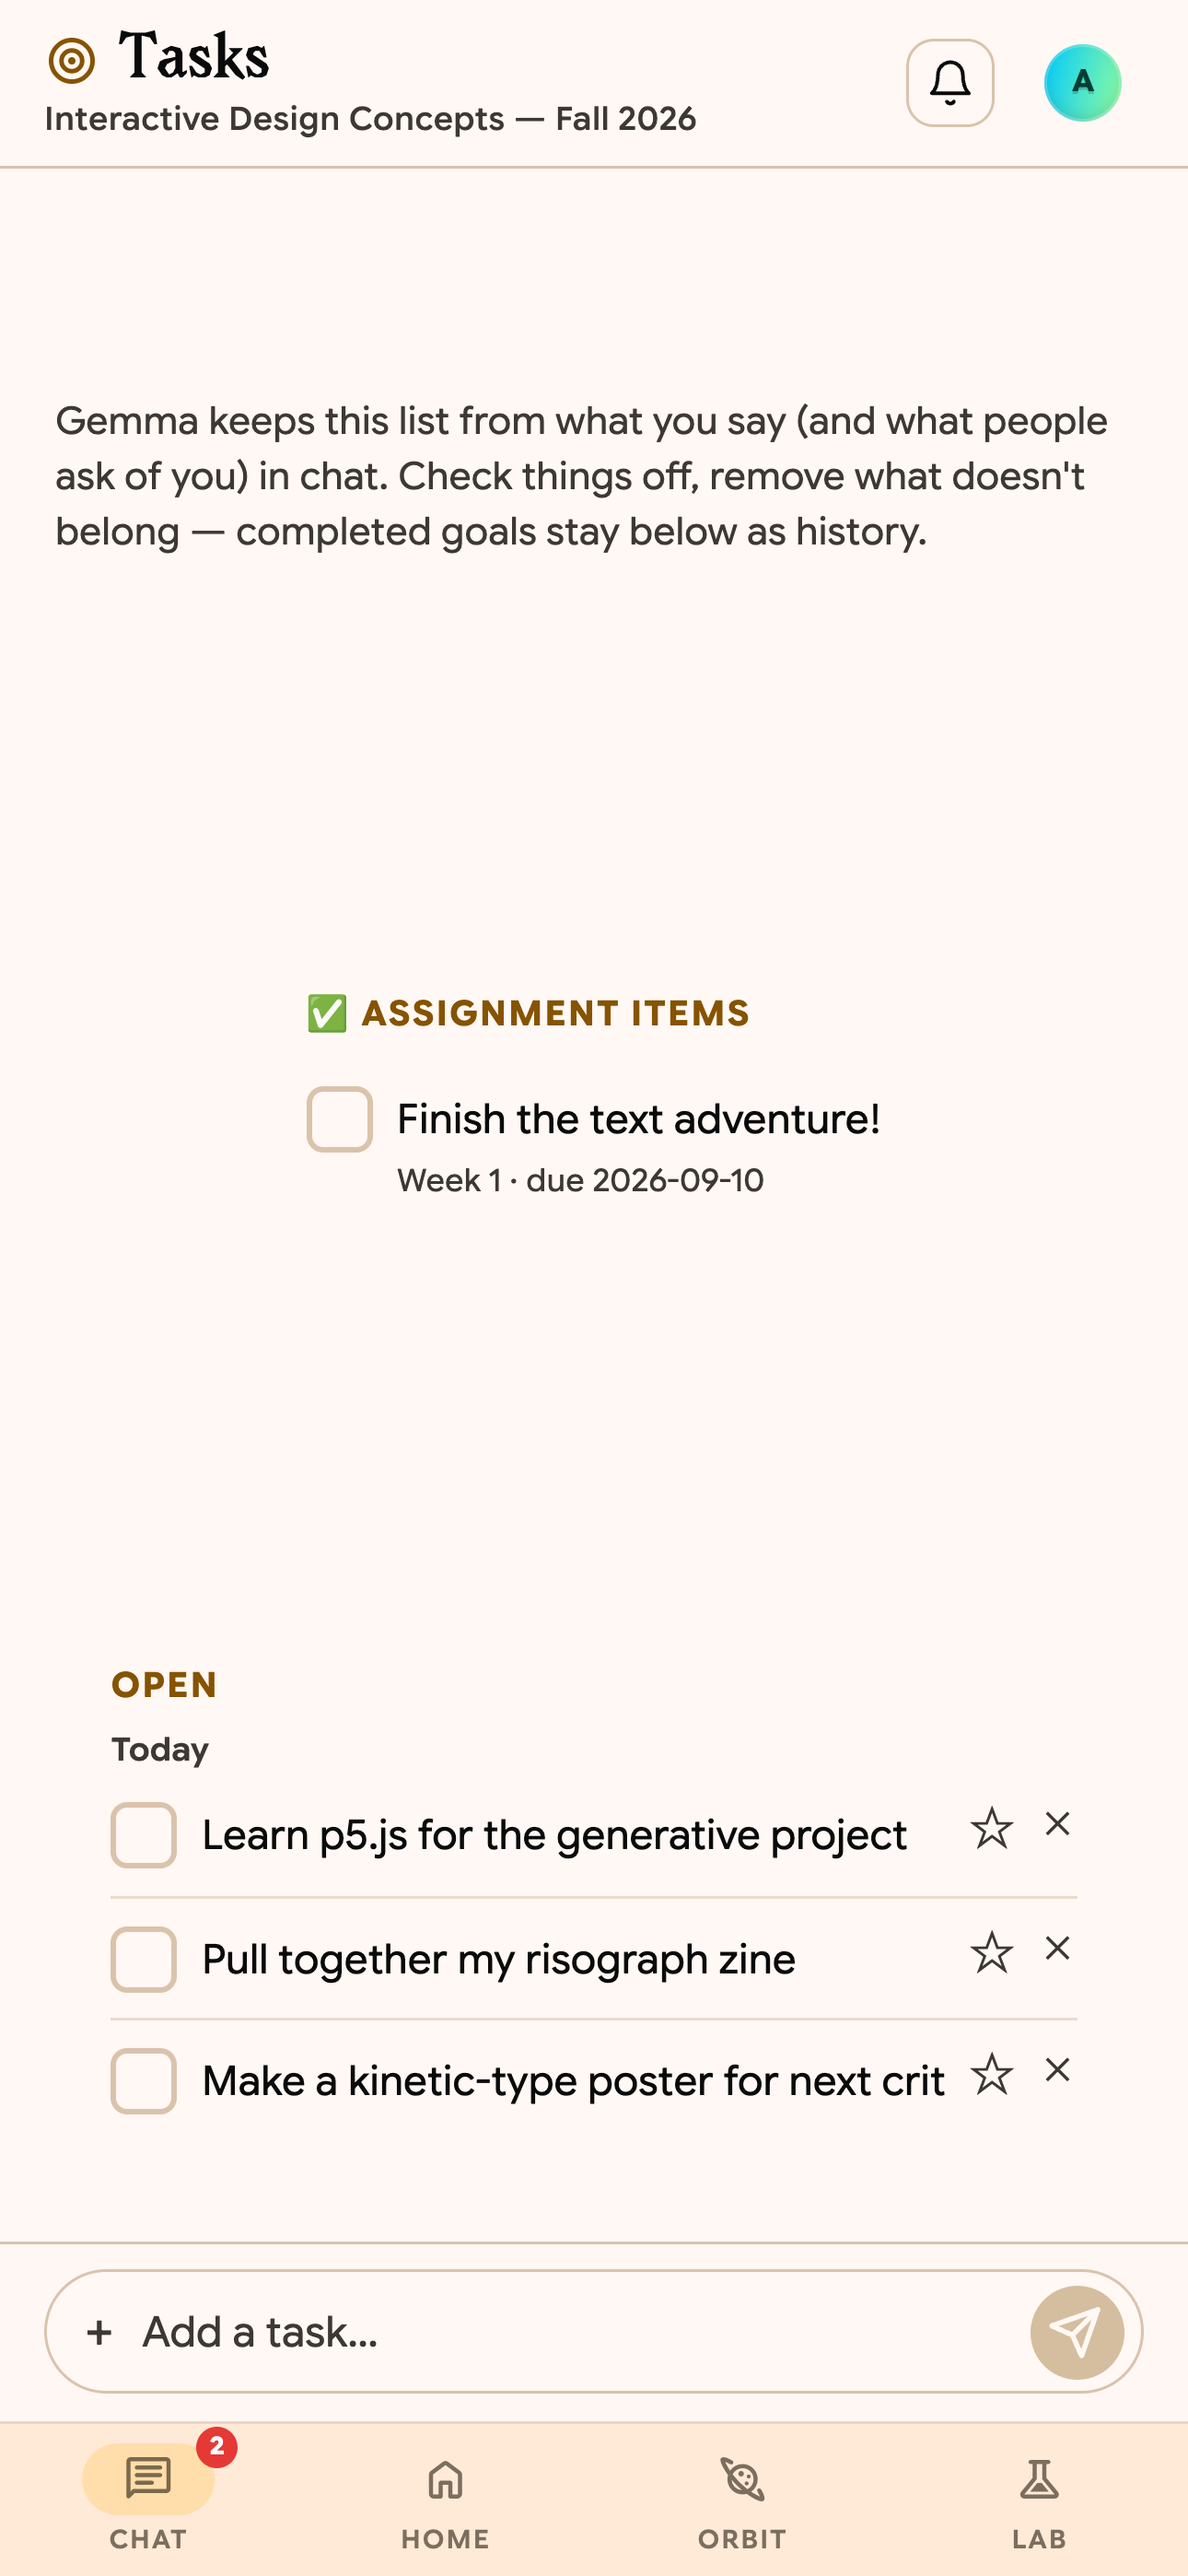
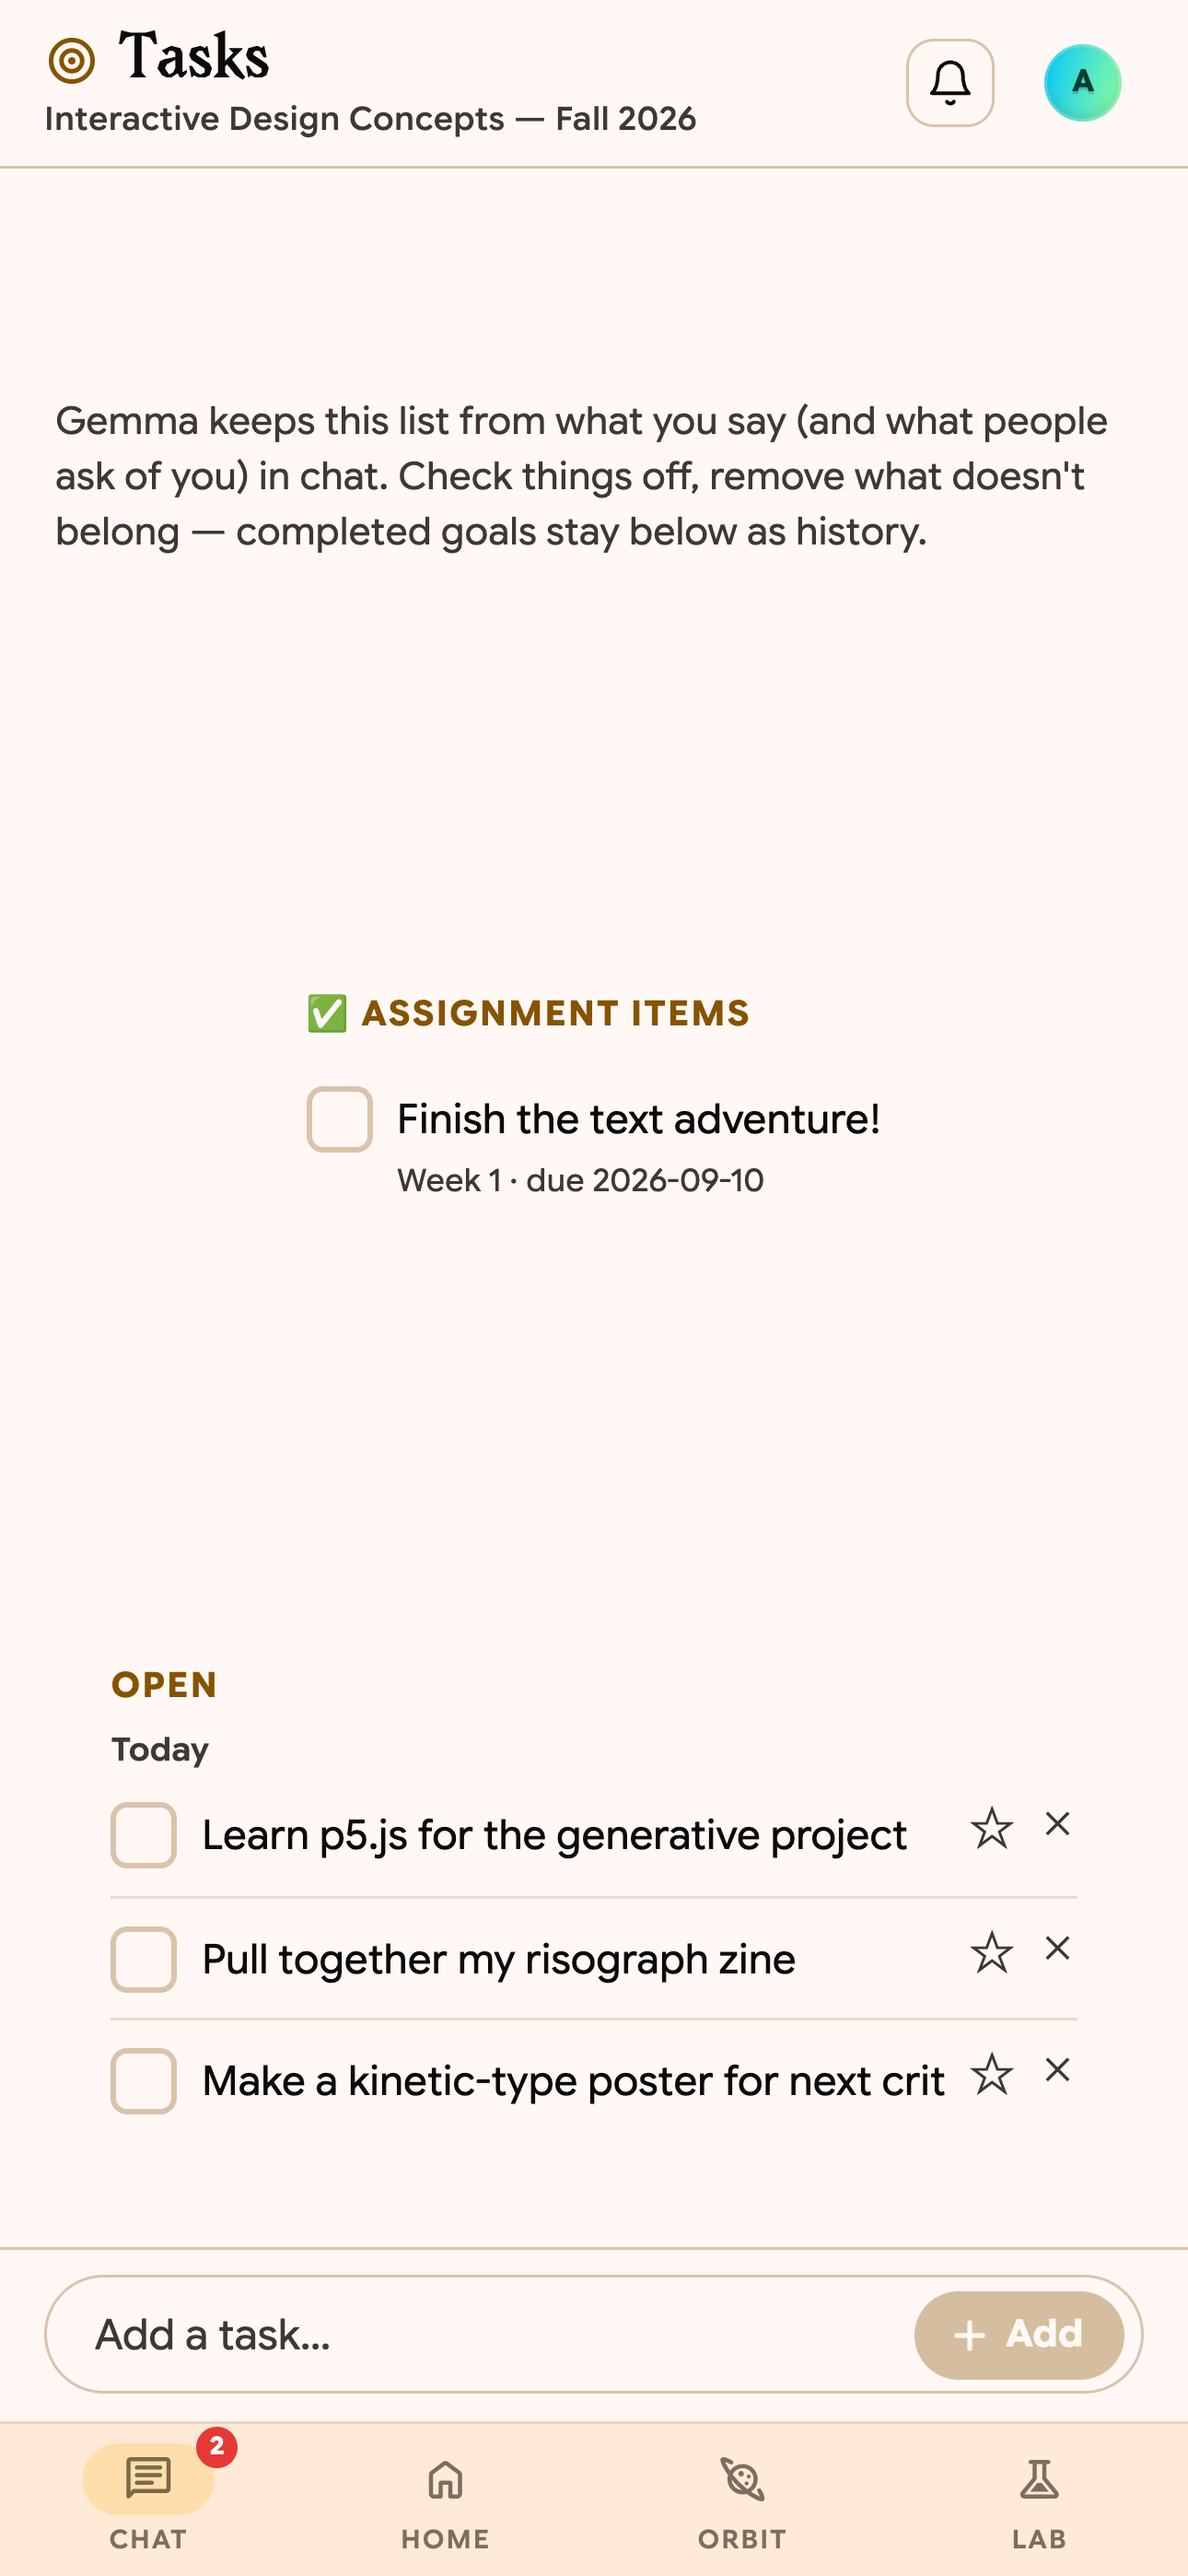
Tasks: "+ Add" button; chat send button matches compose-bar height
- Tasks add bar: replace the paper-plane send icon with a "＋ Add" pill
  button (dropped the redundant leading plus).
- Chat compose (channel + DM): the send button now stretches to the full
  height of the message box beside it (send-wrap align-self:stretch,
  btn-send height:100%) instead of being a fixed 2.5rem square.

Changed region(s): [[0.031, 0.8712, 0.9612, 0.9335]]

diff --git a/src/routes/app/goals/+page.svelte b/src/routes/app/goals/+page.svelte
@@ -277,7 +277,6 @@
 	     native shell via the same --kb-height transform the chat compose uses. -->
 	<div class="goal-add">
 		<div class="goal-add-inner">
-			<span class="goal-add-plus" aria-hidden="true">+</span>
 			<input
 				class="goal-add-input"
 				type="text"
@@ -286,8 +285,9 @@
 				bind:value={newTask}
 				onkeydown={onAddKey}
 			/>
-			<button class="goal-add-btn" disabled={!newTask.trim() || adding} onclick={addTask} aria-label="Add task">
-				<svg width="20" height="20" viewBox="0 0 24 24" fill="none" stroke="currentColor" stroke-width="2.2" stroke-linecap="round" stroke-linejoin="round"><path d="M22 2 11 13"/><path d="M22 2 15 22 11 13 2 9z"/></svg>
+			<button class="goal-add-btn" disabled={!newTask.trim() || adding} onclick={addTask}>
+				<svg width="16" height="16" viewBox="0 0 24 24" fill="none" stroke="currentColor" stroke-width="2.6" stroke-linecap="round" stroke-linejoin="round"><line x1="12" y1="5" x2="12" y2="19"/><line x1="5" y1="12" x2="19" y2="12"/></svg>
+				<span>Add</span>
 			</button>
 		</div>
 	</div>
@@ -319,22 +319,23 @@
 		display: flex; align-items: center; gap: 0.5rem;
 		background: var(--paper);
 		border: 1.5px solid var(--border); border-radius: 999px;
-		padding: 0.3rem 0.4rem 0.3rem 0.85rem;
+		padding: 0.3rem 0.4rem 0.3rem 0.95rem;
 	}
 	.goal-add-inner:focus-within { border-color: var(--accent); }
-	.goal-add-plus { color: var(--muted-fg); font-size: 1.2rem; line-height: 1; flex-shrink: 0; }
 	.goal-add-input {
 		flex: 1; min-width: 0; border: none; background: none; outline: none;
 		font-size: 0.95rem; color: var(--ink); font-family: inherit;
 	}
 	.goal-add-input::placeholder { color: var(--muted-fg); }
 	.goal-add-btn {
-		flex-shrink: 0; width: 2.1rem; height: 2.1rem; border: none; border-radius: 999px;
+		flex-shrink: 0; border: none; border-radius: 999px;
 		background: var(--accent); color: var(--paper);
-		display: inline-flex; align-items: center; justify-content: center; cursor: pointer;
+		display: inline-flex; align-items: center; gap: 0.3rem;
+		padding: 0.45rem 0.9rem 0.45rem 0.75rem;
+		font-family: inherit; font-size: 0.85rem; font-weight: 700; cursor: pointer;
 		transition: opacity 0.15s ease;
 	}
-	.goal-add-btn svg { display: block; margin-right: 1px; }
+	.goal-add-btn svg { display: block; }
 	.goal-add-btn:disabled { opacity: 0.35; cursor: default; }
 	@media (max-width: 640px) {
 		/* Sit directly above the fixed bottom nav (56px tall + its safe-area pad),

diff --git a/src/routes/app/chat/channel/[channelId]/+page.svelte b/src/routes/app/chat/channel/[channelId]/+page.svelte
@@ -5578,13 +5578,17 @@
 
 	.send-wrap {
 		position: relative; flex-shrink: 0; touch-action: none; user-select: none; z-index: 299;
+		/* Stretch to the full height of the compose bar (the .input-bar is
+		   align-items:flex-end, so opt this child into stretching) so the send
+		   button stands as tall as the message box beside it. */
+		align-self: stretch;
 	}
 	.btn-send {
 		display: inline-flex; align-items: center; justify-content: center;
 		padding: 0.6rem; background: var(--ink); color: var(--paper); border: none;
 		border-radius: 10px; font-family: inherit; font-size: 0.875rem; font-weight: 600;
 		cursor: pointer; transition: opacity 0.15s; pointer-events: none;
-		position: relative; z-index: 1; width: 2.5rem; height: 2.5rem;
+		position: relative; z-index: 1; width: 2.5rem; height: 100%;
 	}
 	.btn-send svg { display: block; margin-right: 1px; }
 	.btn-send:hover { opacity: 0.8; }

diff --git a/src/routes/app/chat/dm/[convId]/+page.svelte b/src/routes/app/chat/dm/[convId]/+page.svelte
@@ -5284,13 +5284,16 @@
 
 	.send-wrap {
 		position: relative; flex-shrink: 0; touch-action: none; user-select: none; z-index: 299;
+		/* Stretch to the full height of the compose bar so the send button stands
+		   as tall as the message box beside it (input-bar is align-items:flex-end). */
+		align-self: stretch;
 	}
 	.btn-send {
 		display: inline-flex; align-items: center; justify-content: center;
 		padding: 0.6rem; background: var(--ink); color: var(--paper); border: none;
 		border-radius: 10px; font-family: inherit; font-size: 0.875rem; font-weight: 600;
 		cursor: pointer; transition: opacity 0.15s; pointer-events: none;
-		position: relative; z-index: 1; width: 2.5rem; height: 2.5rem;
+		position: relative; z-index: 1; width: 2.5rem; height: 100%;
 	}
 	.btn-send svg { display: block; margin-right: 1px; }
 	.btn-send:hover { opacity: 0.8; }
